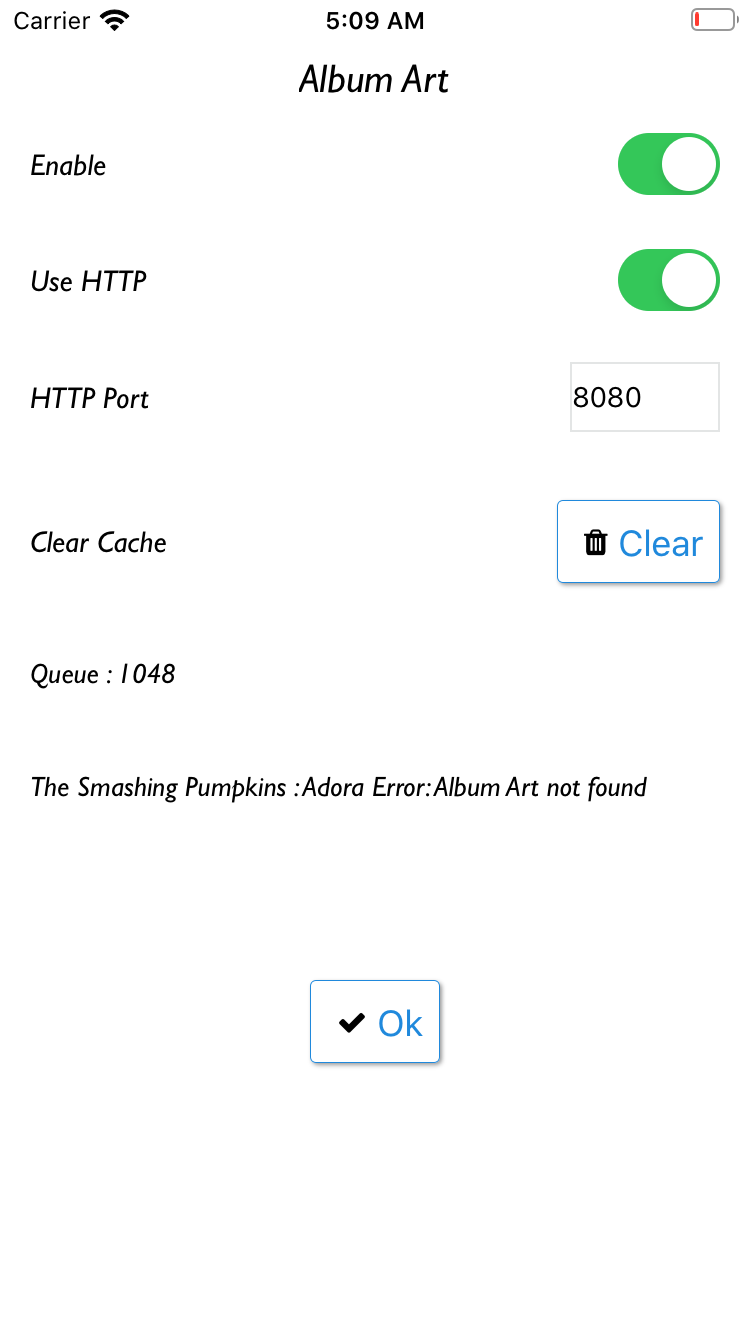
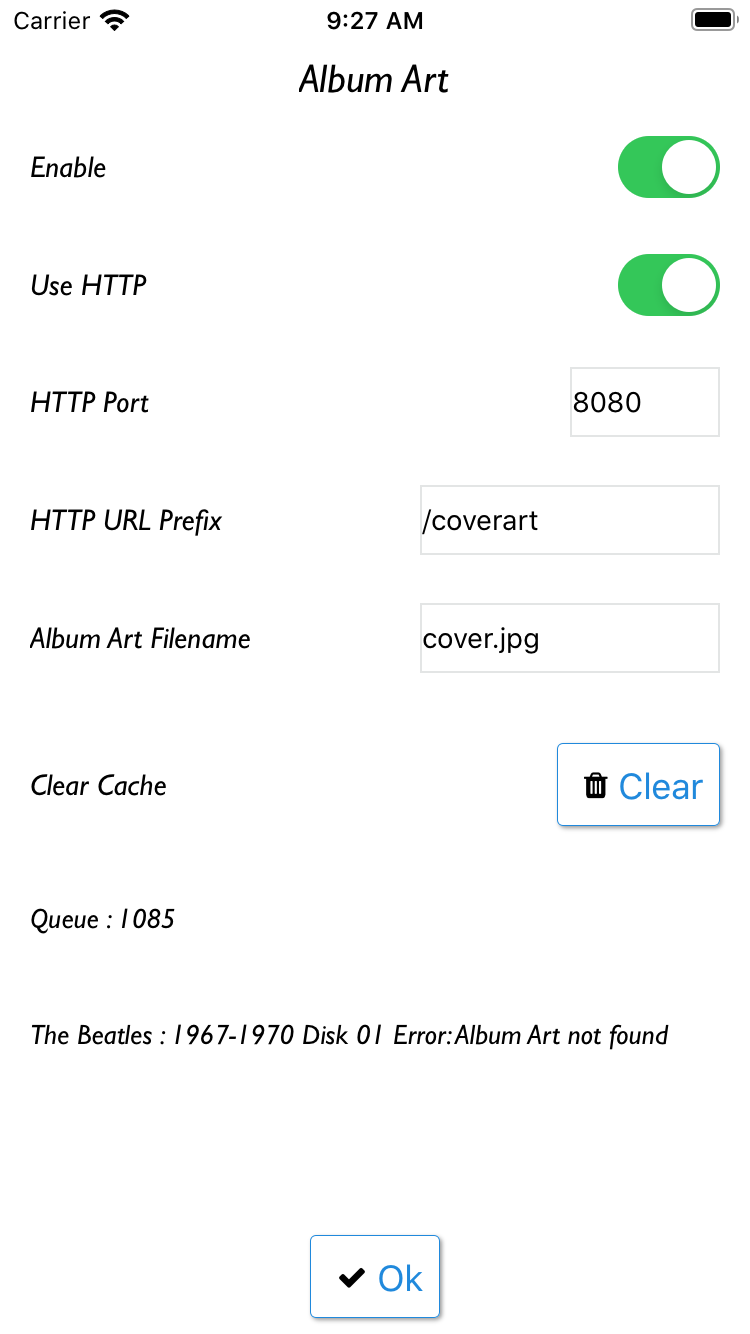
Add details on new Album Art config options

diff --git a/MaximumMPD.html b/MaximumMPD.html
@@ -134,6 +134,32 @@
         <img src="images/albumart.png" style="width:300px;height:534px;border:1px solid black;"/>
         <p></p>
 
+        <p>Configuration example for an HTTP File server like Apache HTTP Server</p>
+        <p>If the configured port is 80, the Document Root is set to "/var/www/html", the album art files are stored in a directory called "coverart" (full path is "/var/www/html/coverart" and the name of the files are "config.jpg"</p>
+        <ul>
+            <li>Set the HTTP port configuration value to 80</li>
+			<li>Set the URL prefix configuration value to "/coverart"</li>
+            <li>set the Album Art Filename configuration value to "cover.jpg"</li>
+		</ul>
+
+        <p>The URL will be assembled as follows</p>
+
+        <p>http://[IP address of MPD server]:[Configured HTTP Port][Configured URL Prefix]/[Music DB directory structure]/[Configured Album Art filename]</p>
+
+        <p>e.g</p>
+        <p>http://192.168.1.1:80/coverart/James/The%20Best%20Of/cover.jpg</p>
+
+        <p>Note: the directory structure under "/var/www/html/coverart" must be the same as your Music Database directory structure</p>
+
+        <p>An example of how to copy all cover.jpg files from your Music DB is:</p>
+        <ul>
+            <li>Change directory to where your Music DB root is</li>
+			<li>run the command "find . -name 'cover.jpg' -exec cp --parents \{\} /var/www/html/coverart \;"</li>
+		</ul>
+
+
+        <p></p>
+
         <h2 id="privacy">Privacy/Contact</h2>
 		<h3><strong><em>Information Collection And Use</strong></em></h3>
 		<p>Maximum MPD collects no Data</p>
